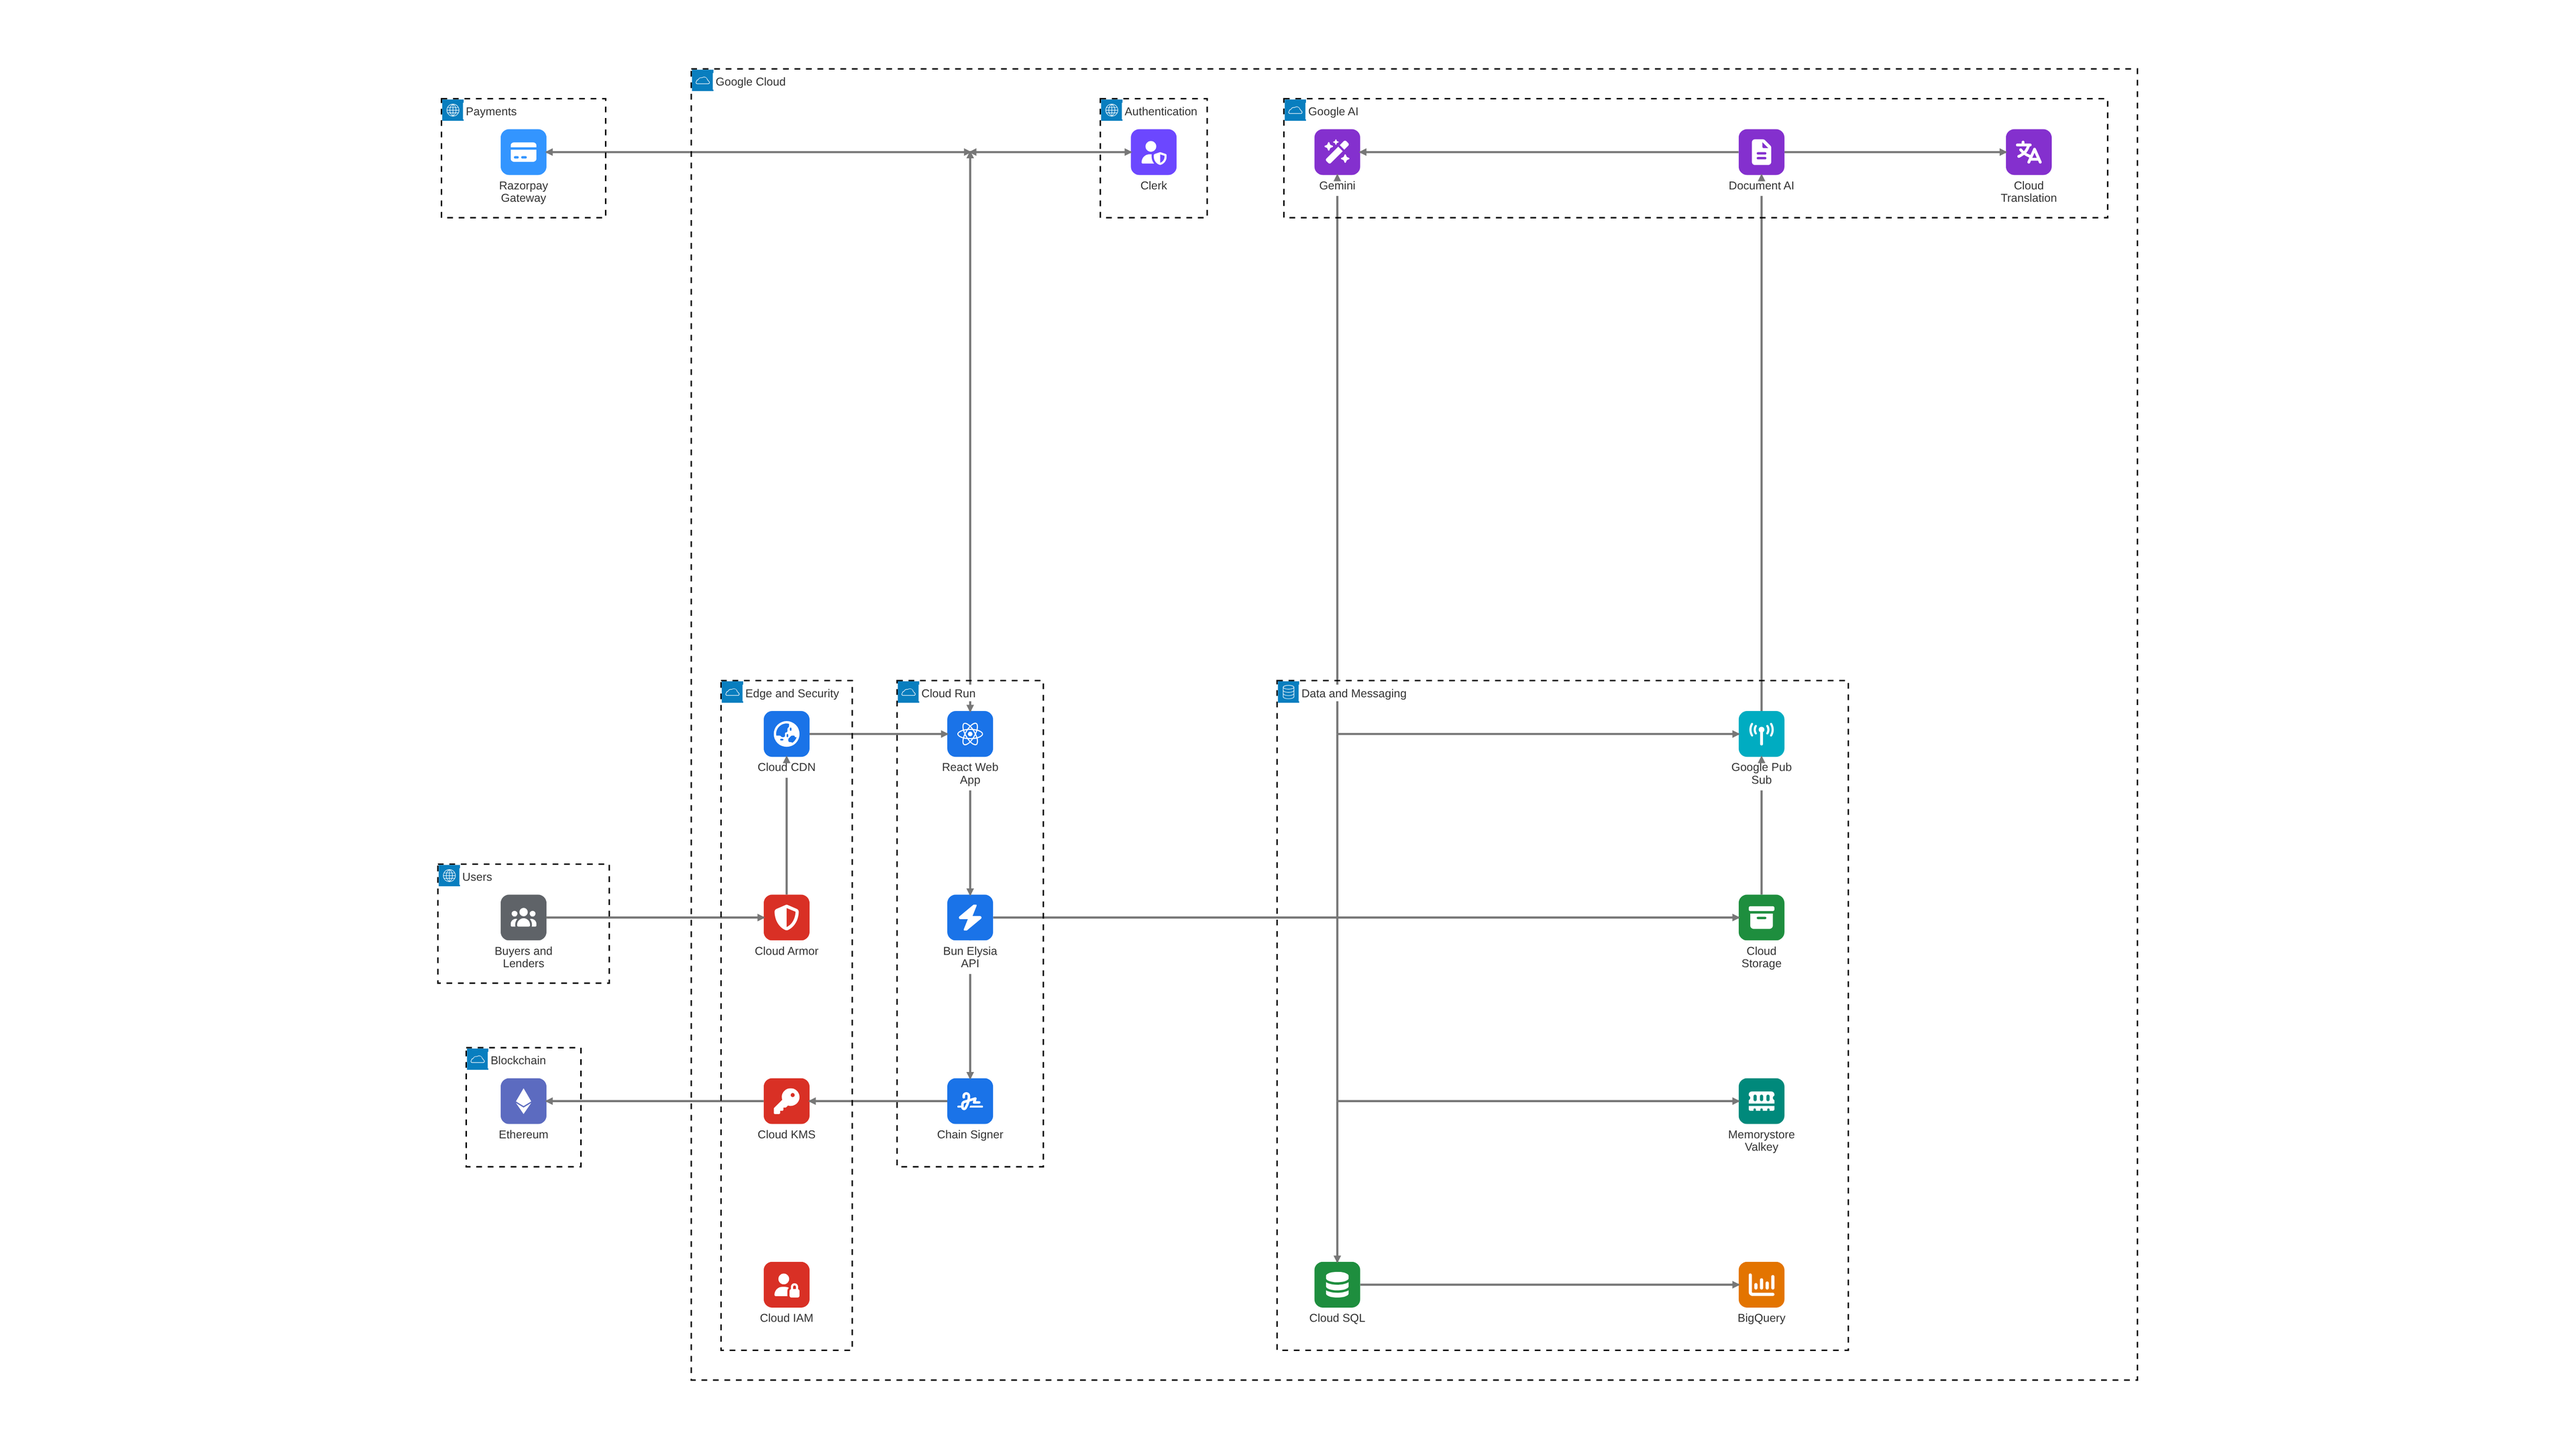
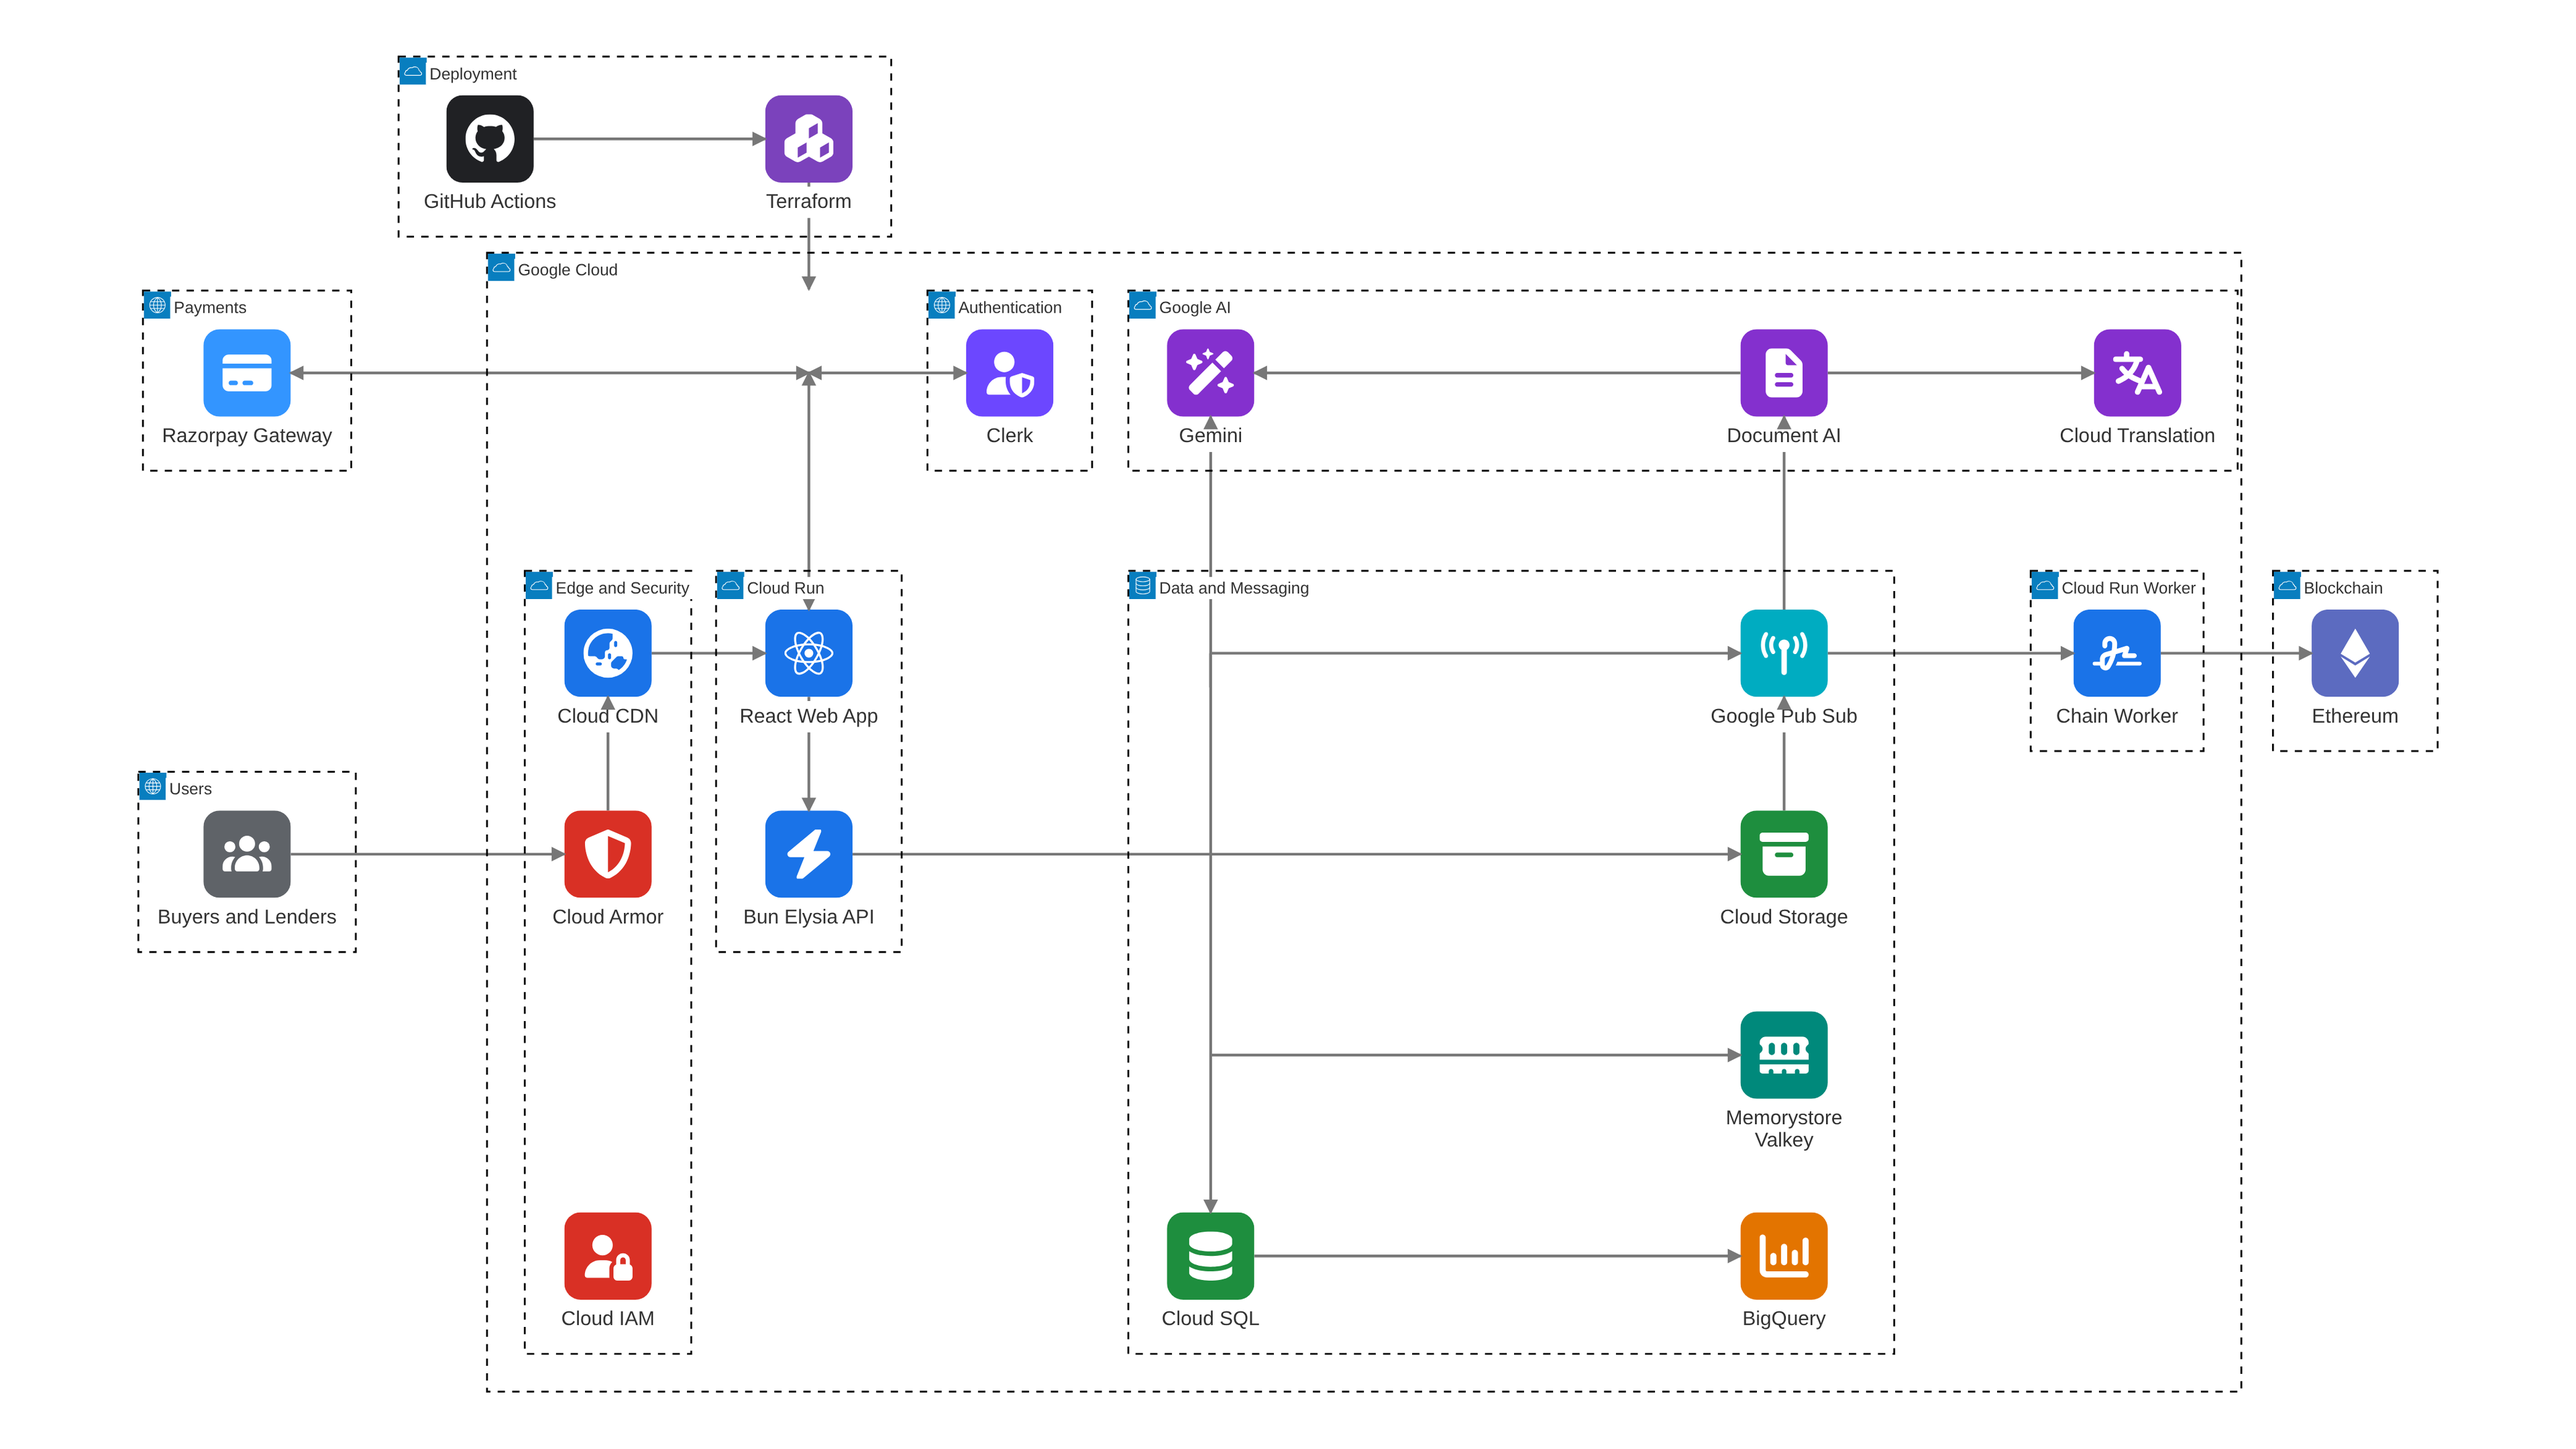
docs: add system architecture diagrams and documentation

diff --git a/docs/architecture/render.md b/docs/architecture/render.md
@@ -16,3 +16,14 @@ Mermaid draws edges behind node labels with transparent backgrounds, so arrows c
 
     mmdc -i realdha-architecture.mmd -o base.svg -b white --iconPacksNamesAndUrls "rd#http://127.0.0.1:8765/icons.json"
     node postprocess.js base.svg realdha-architecture.svg realdha-architecture.png
+
+## Vertical gap compaction
+After mmdc, run: python3 compact.py base.svg base_c.svg 380 (closes the gap between the top row and the rest), then node postprocess.js base_c.svg out.svg out.png
+
+Text sizing: service labels 24px, group titles 20px (CSS injected before postprocess.js); users/payments/AI group boxes extended 22 units for two-line labels.
+
+Update: iconSize 96, idealEdgeLengthMultiplier 2.5, nodeSeparation 140; compact.py delta 360; label CSS 22px/18px, no group extension needed.
+
+Tighter: idealEdgeLengthMultiplier 2.3. finish.sh automates compaction (gap reduced to ~110 units), 22px/18px label CSS, postprocess and 16:9 export: finish.sh base.svg tag
+
+Chain Worker arrow shortened: compactx.py shifts worker and Ethereum left (gap 150 units) after the vertical compaction.
